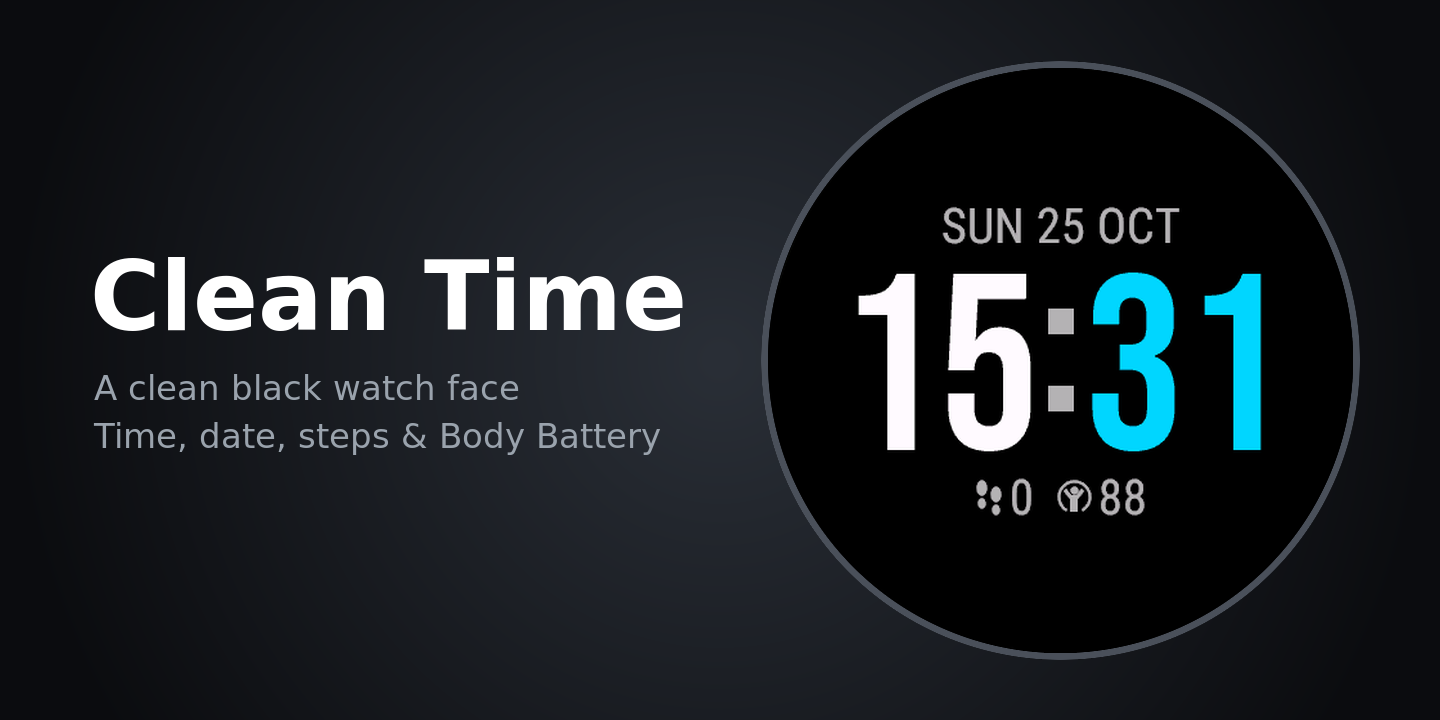
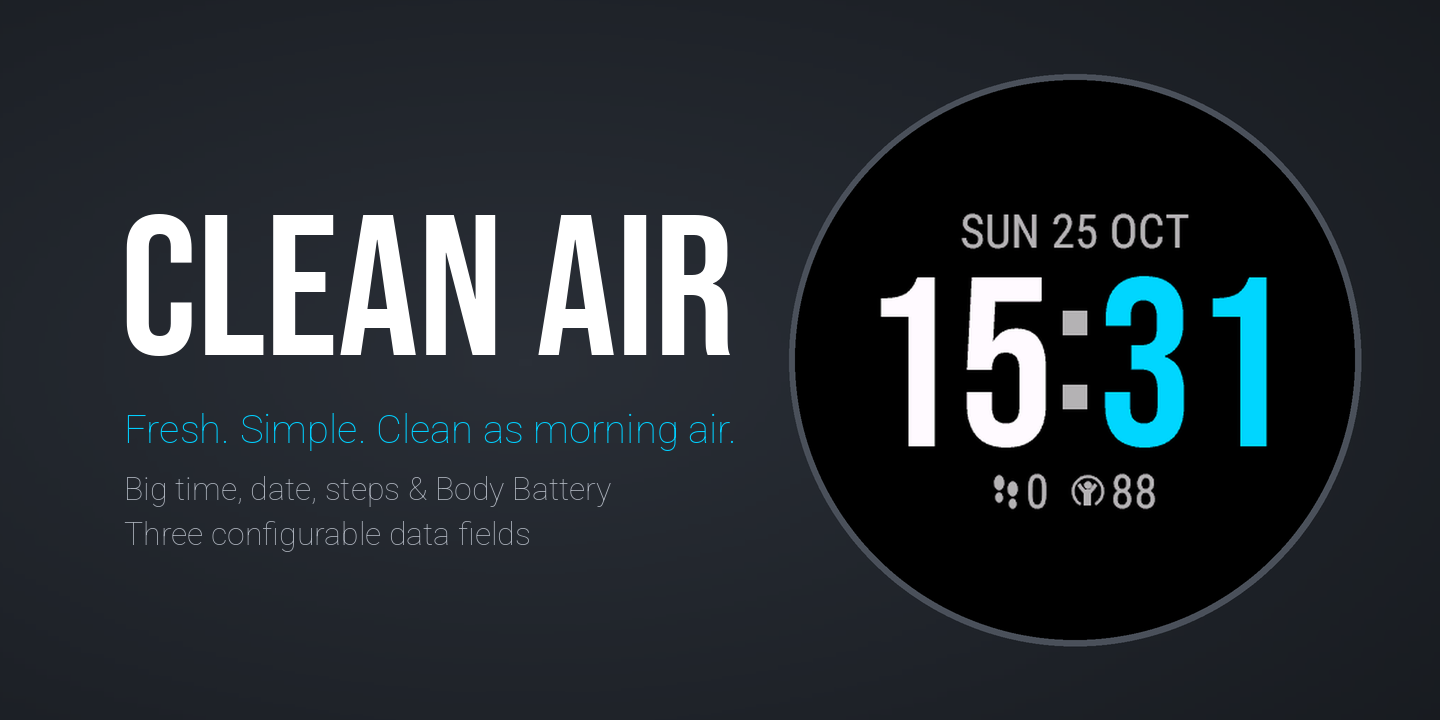
assets: regenerate store images for Clean Air; collect all store images into store/all-assets

diff --git a/scripts/make_hero.py b/scripts/make_hero.py
@@ -1,0 +1,68 @@
+#!/usr/bin/env python3
+"""Renders the Connect IQ Store hero image store/hero/hero_1440x720.png (1440 x 720 px, store limit 2048 KB).
+
+    python3 scripts/make_hero.py [screenshot] [out]
+
+* Title "CLEAN AIR" in Bebas Neue (assets/fonts/BebasNeue, SIL OFL) - the same font as the watch-face time.
+* Tagline and feature line in Roboto (tests/host/fonts, SIL OFL).
+* Right side: the round screen of a REAL simulator screenshot from docs/screenshots/ (default: the XLarge
+  white/cyan frame), masked to its 454 px circle and framed by a thin grey ring - no mock-up of the face.
+* Background: dark slate radial gradient, so the black watch screen still stands out. Needs Pillow.
+"""
+import os
+import sys
+
+from PIL import Image, ImageDraw, ImageFont
+
+ROOT = os.path.join(os.path.dirname(os.path.abspath(__file__)), "..")
+SHOT = sys.argv[1] if len(sys.argv) > 1 else os.path.join(ROOT, "docs", "screenshots", "active_xlarge_white-cyan.png")
+OUT = sys.argv[2] if len(sys.argv) > 2 else os.path.join(ROOT, "store", "hero", "hero_1440x720.png")
+BEBAS = os.path.join(ROOT, "assets", "fonts", "BebasNeue", "BebasNeue-Regular.ttf")
+ROBOTO = os.path.join(ROOT, "tests", "host", "fonts", "Roboto-VariableFont_wdth,wght.ttf")
+W, H = 1440, 720
+SS = 2  # supersampling for smooth circle edges
+
+
+def roboto(size, weight):
+    f = ImageFont.truetype(ROBOTO, size)
+    try:
+        f.set_variation_by_axes([100, weight])  # axes: wdth, wght
+    except (OSError, ValueError):
+        pass
+    return f
+
+
+def main():
+    # Background: radial gradient from #2A2F37 (left of centre) to #0B0D10 at the corners.
+    bg = Image.radial_gradient("L").resize((W * 2, H * 2))
+    bg = bg.crop((W // 2 + 200, H // 2, W // 2 + 200 + W, H // 2 + H))
+    lo, hi = (42, 47, 55), (11, 13, 16)
+    base = Image.merge("RGB", [bg.point(lambda v, a=a, b=b: int(a + (b - a) * v / 255)) for a, b in zip(lo, hi)])
+
+    # Watch: 454 px round screen scaled to 560 px, grey ring, centred at (1075, 360).
+    d, cx, cy, ring = 560, 1075, 360, 6
+    shot = Image.open(SHOT).convert("RGB").resize((d * SS, d * SS), Image.LANCZOS)
+    mask = Image.new("L", (d * SS, d * SS), 0)
+    ImageDraw.Draw(mask).ellipse((0, 0, d * SS - 1, d * SS - 1), fill=255)
+    big = base.resize((W * SS, H * SS), Image.LANCZOS)
+    dr = ImageDraw.Draw(big)
+    r = (d // 2 + ring) * SS
+    dr.ellipse(((cx * SS) - r, (cy * SS) - r, (cx * SS) + r, (cy * SS) + r), fill=(74, 80, 90))
+    big.paste(shot, (cx * SS - d * SS // 2, cy * SS - d * SS // 2), mask)
+    img = big.resize((W, H), Image.LANCZOS)
+
+    # Text block on the left.
+    dr = ImageDraw.Draw(img)
+    x = 120
+    title = ImageFont.truetype(BEBAS, 200)
+    dr.text((x, 175), "CLEAN AIR", font=title, fill=(255, 255, 255))
+    dr.text((x + 4, 405), "Fresh. Simple. Clean as morning air.", font=roboto(40, 400), fill=(0, 207, 255))
+    dr.text((x + 4, 470), "Big time, date, steps & Body Battery", font=roboto(32, 300), fill=(170, 176, 186))
+    dr.text((x + 4, 515), "Three configurable data fields", font=roboto(32, 300), fill=(170, 176, 186))
+
+    img.save(OUT, "PNG", optimize=True)
+    print(f"{OUT}: {img.size[0]}x{img.size[1]}, {os.path.getsize(OUT)} bytes")
+
+
+if __name__ == "__main__":
+    main()

diff --git a/store/all-assets/INDEX.md b/store/all-assets/INDEX.md
@@ -1,0 +1,53 @@
+# Clean Air — Connect IQ Store images
+
+Everything the Garmin Developer Dashboard asks for, in one place. All files are PNG, sRGB.
+
+Where to upload (Developer Dashboard → your app → Edit / Upload new version):
+
+- **Hero image** (optional, max 2048 KB): `hero_1440x720.png`
+- **Cover image / app icon for the store listing** (500×500, no transparency): `cover_500x500.png`
+- **Screenshots** (each under 150 KB): any of the `screenshot_*.png` files — `active_*` = normal mode, `aod_*` = always-on (low-power) mode
+- **Device icons** (128×128): `icon_64color_128x128.png` (64-colour devices) and `icon_24bit_128x128.png` (full-colour AMOLED devices)
+
+| File | Pixels | Size | What it's for |
+|---|---|---|---|
+| `hero_1440x720.png` | 1440×720 | 119,375 B (116.6 KB) | Store hero banner — title "CLEAN AIR" (Bebas Neue) + real simulator screenshot |
+| `cover_500x500.png` | 500×500 | 36,885 B (36.0 KB) | Store cover image (round screen of active_large_yellow-white on slate background, no text) |
+| `icon_64color_128x128.png` | 128×128 | 1,930 B (1.9 KB) | Device icon, 64-colour palette |
+| `icon_24bit_128x128.png` | 128×128 | 7,880 B (7.7 KB) | Device icon, 24-bit colour |
+| `screenshot_active_large_white-white.png` | 454×454 | 55,644 B (54.3 KB) | Screenshot, active mode — large, white-white |
+| `screenshot_active_large_white-white_calories-floors-temperature.png` | 454×454 | 55,787 B (54.5 KB) | Screenshot, active mode — large, white-white, calories-floors-temperature |
+| `screenshot_active_large_white-white_no-fields.png` | 454×454 | 54,010 B (52.7 KB) | Screenshot, active mode — large, white-white, no-fields |
+| `screenshot_active_large_yellow-white.png` | 454×454 | 55,858 B (54.5 KB) | Screenshot, active mode — large, yellow-white |
+| `screenshot_active_medium_silver-teal_intensity-notifications-distance.png` | 454×454 | 55,949 B (54.6 KB) | Screenshot, active mode — medium, silver-teal, intensity-notifications-distance |
+| `screenshot_active_medium_white-orange.png` | 454×454 | 55,891 B (54.6 KB) | Screenshot, active mode — medium, white-orange |
+| `screenshot_active_medium_white-orange_steps-only.png` | 454×454 | 54,914 B (53.6 KB) | Screenshot, active mode — medium, white-orange, steps-only |
+| `screenshot_active_medium_white-white.png` | 454×454 | 55,532 B (54.2 KB) | Screenshot, active mode — medium, white-white |
+| `screenshot_active_medium_white-white_batterydays-stress.png` | 454×454 | 55,171 B (53.9 KB) | Screenshot, active mode — medium, white-white, batterydays-stress |
+| `screenshot_active_medium_white-white_steps-bb-hr.png` | 454×454 | 56,707 B (55.4 KB) | Screenshot, active mode — medium, white-white, steps-bb-hr |
+| `screenshot_active_small_white-cyan.png` | 454×454 | 55,266 B (54.0 KB) | Screenshot, active mode — small, white-cyan |
+| `screenshot_active_xlarge_lime-magenta.png` | 454×454 | 56,443 B (55.1 KB) | Screenshot, active mode — xlarge, lime-magenta |
+| `screenshot_active_xlarge_white-cyan.png` | 454×454 | 55,745 B (54.4 KB) | Screenshot, active mode — xlarge, white-cyan |
+| `screenshot_active_xlarge_white-cyan_hr-battery.png` | 454×454 | 57,129 B (55.8 KB) | Screenshot, active mode — xlarge, white-cyan, hr-battery |
+| `screenshot_active_xxlarge_gold-blue.png` | 454×454 | 56,180 B (54.9 KB) | Screenshot, active mode — xxlarge, gold-blue |
+| `screenshot_active_xxlarge_white-cyan.png` | 454×454 | 56,637 B (55.3 KB) | Screenshot, active mode — xxlarge, white-cyan |
+| `screenshot_active_xxlarge_white-white.png` | 454×454 | 56,706 B (55.4 KB) | Screenshot, active mode — xxlarge, white-white |
+| `screenshot_aod_large_white-white.png` | 454×454 | 55,209 B (53.9 KB) | Screenshot, always-on (AOD) mode — large, white-white |
+| `screenshot_aod_large_white-white_calories-floors-temperature.png` | 454×454 | 55,780 B (54.5 KB) | Screenshot, always-on (AOD) mode — large, white-white, calories-floors-temperature |
+| `screenshot_aod_large_white-white_no-fields.png` | 454×454 | 53,891 B (52.6 KB) | Screenshot, always-on (AOD) mode — large, white-white, no-fields |
+| `screenshot_aod_large_yellow-white.png` | 454×454 | 55,326 B (54.0 KB) | Screenshot, always-on (AOD) mode — large, yellow-white |
+| `screenshot_aod_medium_silver-teal_intensity-notifications-distance.png` | 454×454 | 56,171 B (54.9 KB) | Screenshot, always-on (AOD) mode — medium, silver-teal, intensity-notifications-distance |
+| `screenshot_aod_medium_white-orange.png` | 454×454 | 55,456 B (54.2 KB) | Screenshot, always-on (AOD) mode — medium, white-orange |
+| `screenshot_aod_medium_white-orange_steps-only.png` | 454×454 | 54,649 B (53.4 KB) | Screenshot, always-on (AOD) mode — medium, white-orange, steps-only |
+| `screenshot_aod_medium_white-white.png` | 454×454 | 54,879 B (53.6 KB) | Screenshot, always-on (AOD) mode — medium, white-white |
+| `screenshot_aod_medium_white-white_batterydays-stress.png` | 454×454 | 54,447 B (53.2 KB) | Screenshot, always-on (AOD) mode — medium, white-white, batterydays-stress |
+| `screenshot_aod_medium_white-white_steps-bb-hr.png` | 454×454 | 55,606 B (54.3 KB) | Screenshot, always-on (AOD) mode — medium, white-white, steps-bb-hr |
+| `screenshot_aod_small_white-cyan.png` | 454×454 | 54,885 B (53.6 KB) | Screenshot, always-on (AOD) mode — small, white-cyan |
+| `screenshot_aod_xlarge_lime-magenta.png` | 454×454 | 55,781 B (54.5 KB) | Screenshot, always-on (AOD) mode — xlarge, lime-magenta |
+| `screenshot_aod_xlarge_white-cyan.png` | 454×454 | 56,040 B (54.7 KB) | Screenshot, always-on (AOD) mode — xlarge, white-cyan |
+| `screenshot_aod_xlarge_white-cyan_hr-battery.png` | 454×454 | 56,302 B (55.0 KB) | Screenshot, always-on (AOD) mode — xlarge, white-cyan, hr-battery |
+| `screenshot_aod_xxlarge_gold-blue.png` | 454×454 | 55,793 B (54.5 KB) | Screenshot, always-on (AOD) mode — xxlarge, gold-blue |
+| `screenshot_aod_xxlarge_white-cyan.png` | 454×454 | 56,252 B (54.9 KB) | Screenshot, always-on (AOD) mode — xxlarge, white-cyan |
+| `screenshot_aod_xxlarge_white-white.png` | 454×454 | 55,338 B (54.0 KB) | Screenshot, always-on (AOD) mode — xxlarge, white-white |
+
+Regenerate: `python3 scripts/make_hero.py` (hero) and `scripts/store-assets.sh <dir>` (cover + screenshots, from docs/screenshots/).
